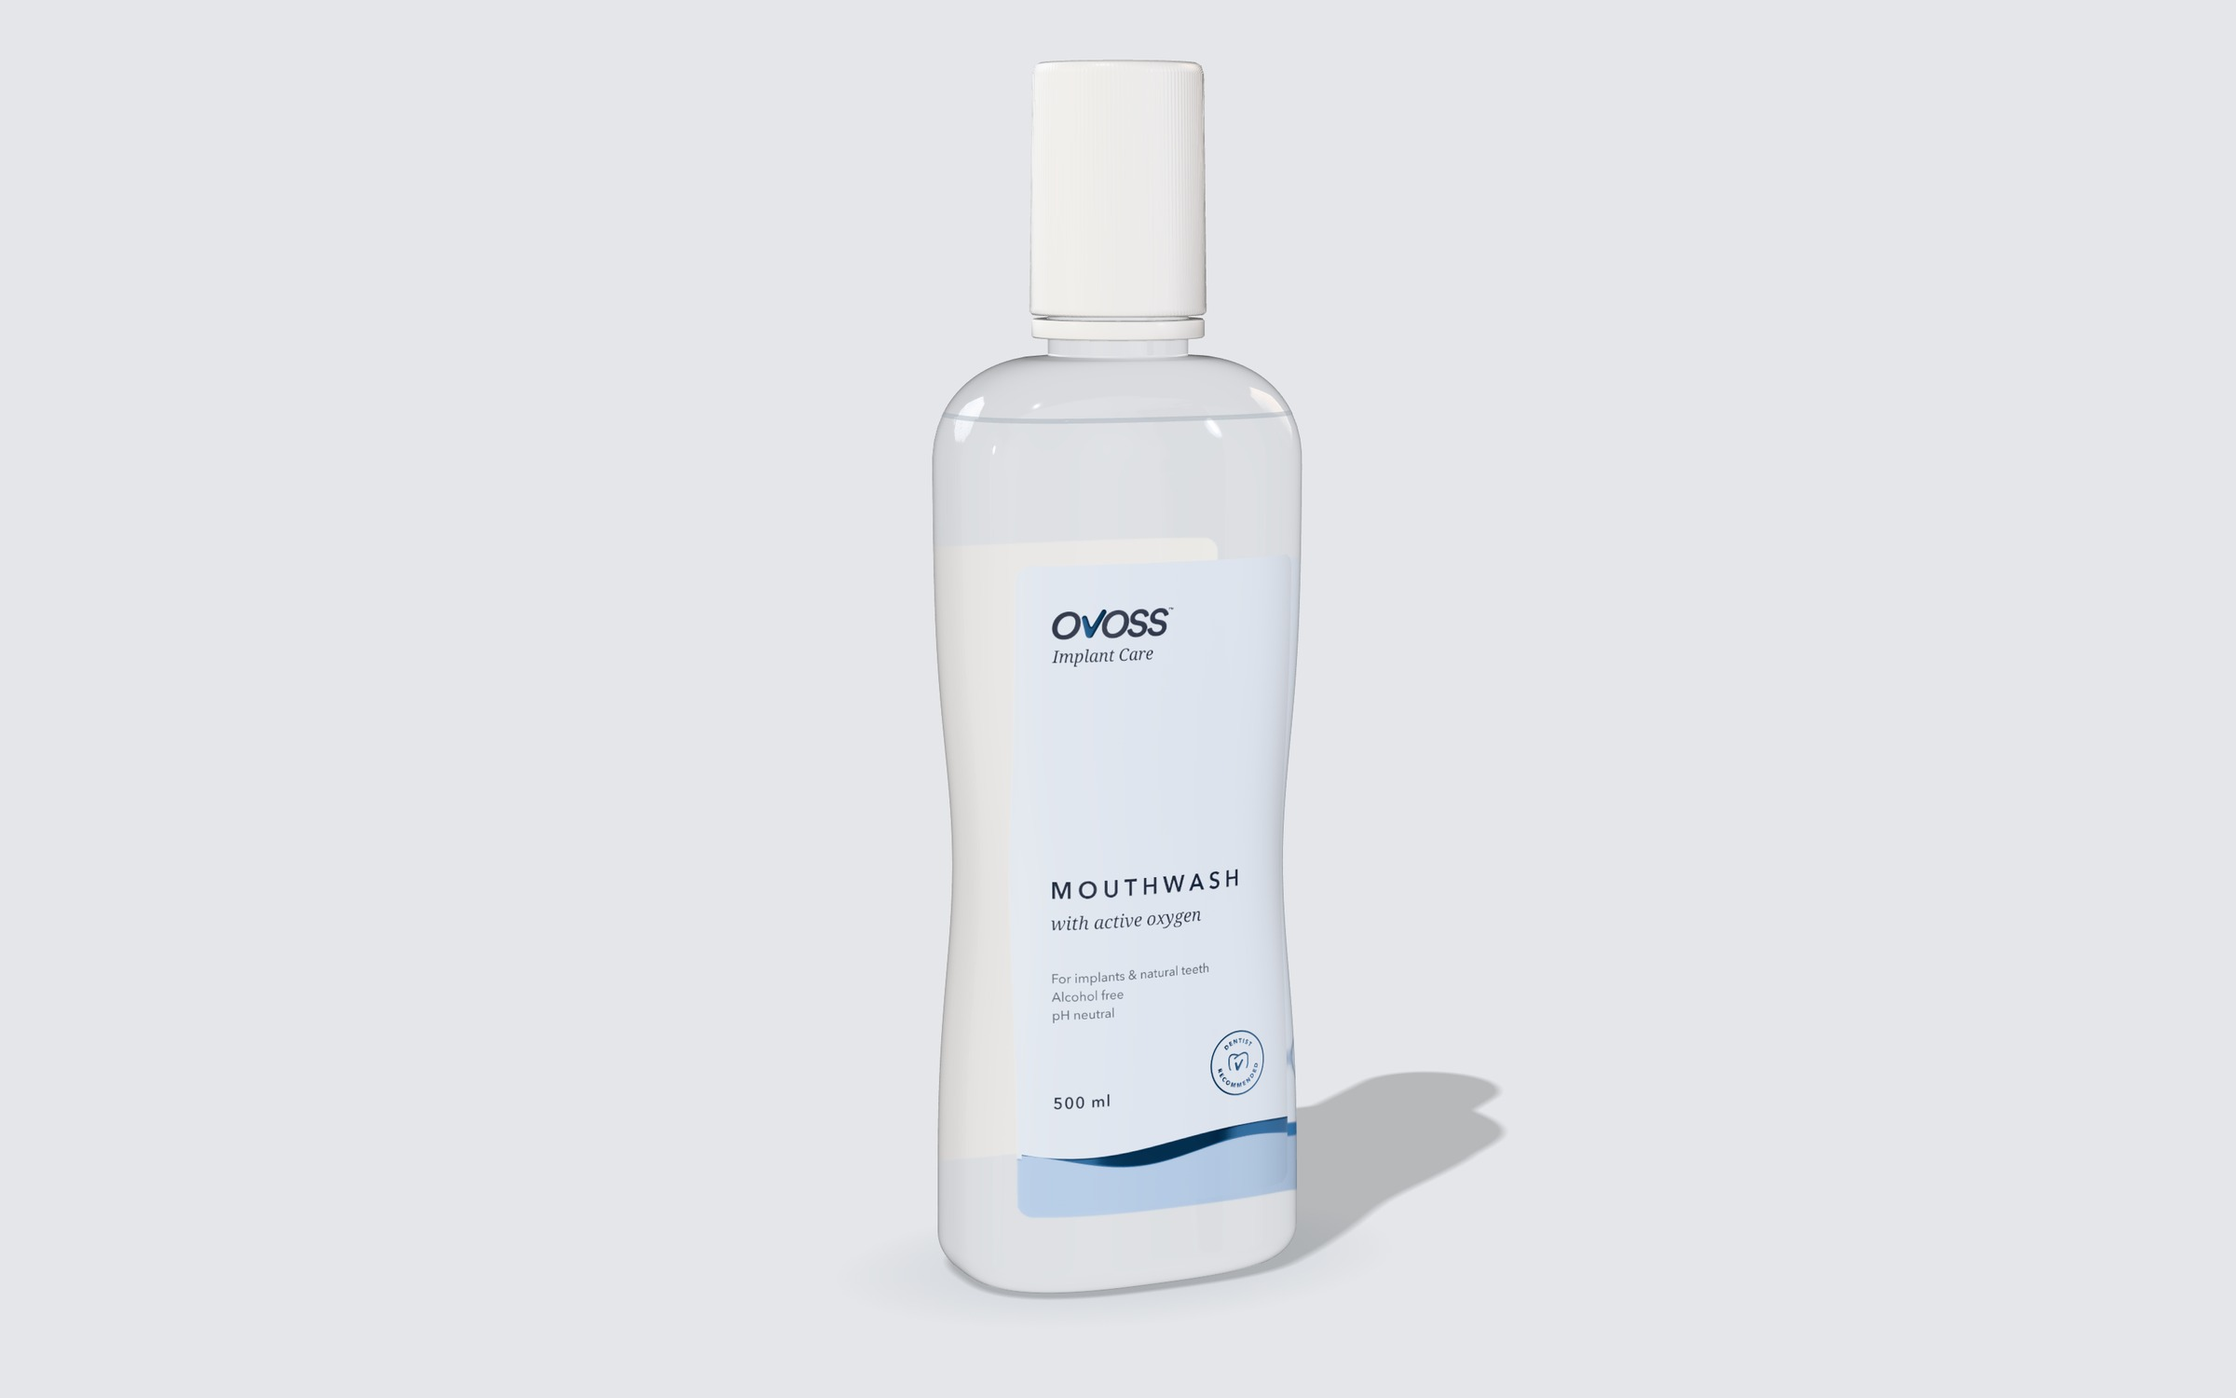
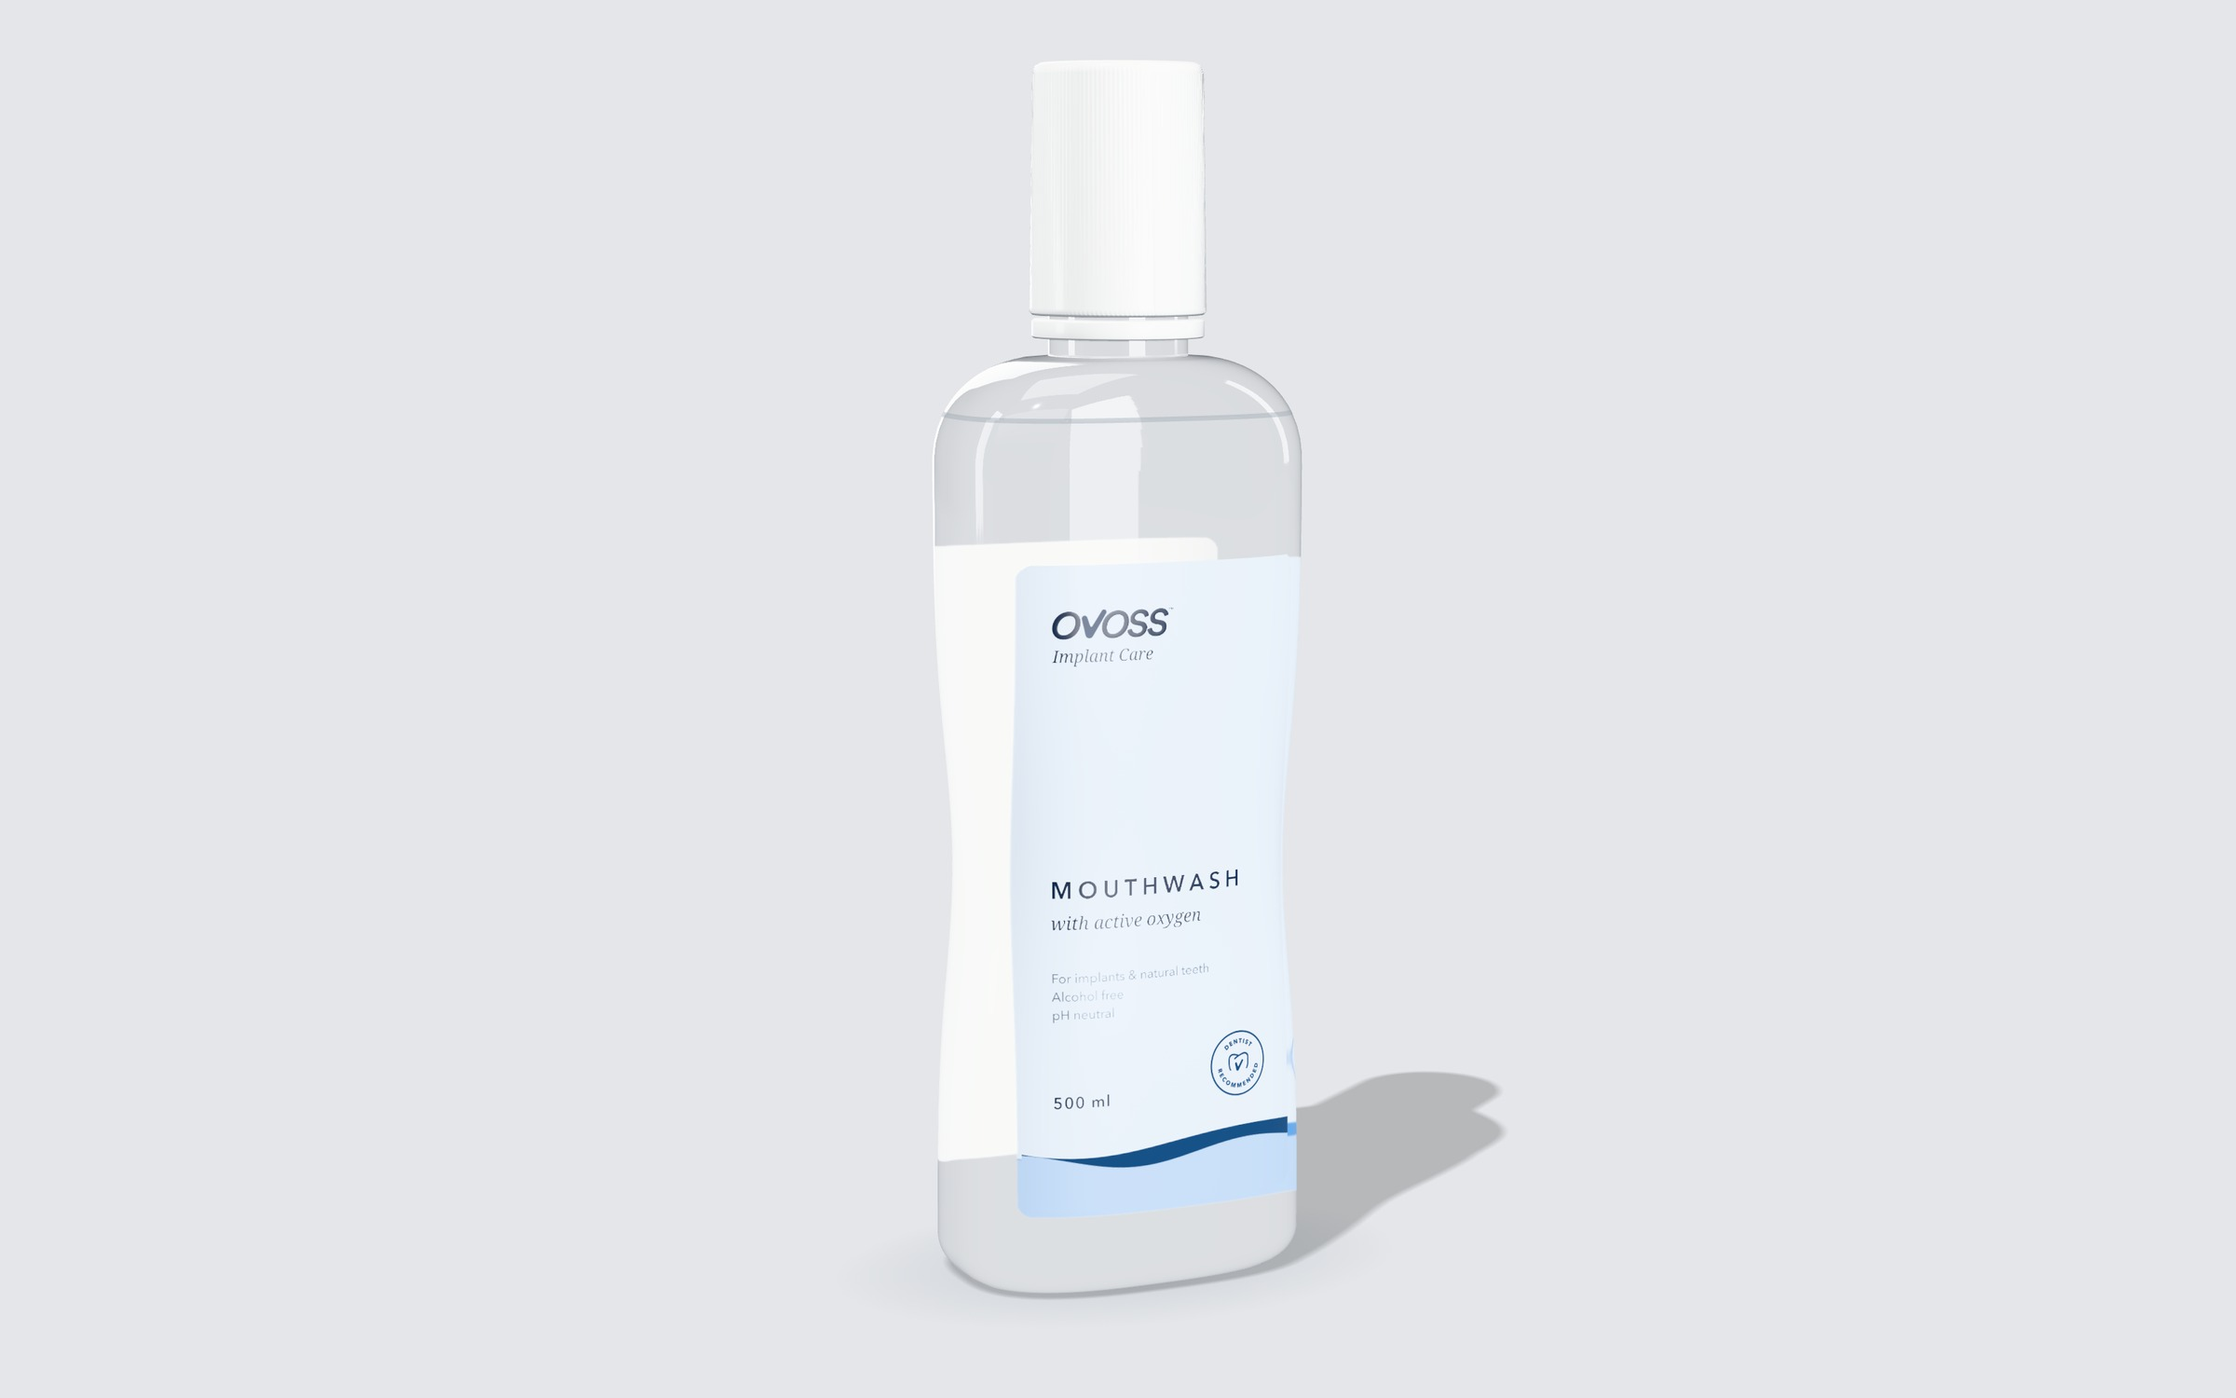
Renders: product-shoot lighting, paper board, brushed foil; tube tint to the label top

diff --git a/_build/studio/studio.html b/_build/studio/studio.html
@@ -69,27 +69,53 @@ const FOIL_ROUGH = parseFloat(params.get('foilrough') || '0.14'), FOIL_ENV = par
 const FOIL_ROT = parseFloat(params.get('foilrot') || '1.5'), FOIL_METALNESS = parseFloat(params.get('foilmetal') || '1');
 const HB_AMP = parseFloat(params.get('hb') || '0.75'), HB_BLUR = parseFloat(params.get('hbblur') || '3.5'), GRAIN_MAX = 0.08;
 let foilEnvTex = null;
-const foilEnv = () => foilEnvTex || (foilEnvTex = pmrem.fromScene(new RoomEnvironment(), 0.03).texture);
+const foilEnv = () => PRO ? scene.environment : (foilEnvTex || (foilEnvTex = pmrem.fromScene(new RoomEnvironment(), 0.03).texture));
 function canvasOf(src) { const c = document.createElement('canvas'); c.width = src.width; c.height = src.height; return c; }
 function dataTex(c, repeat) { const t = new THREE.CanvasTexture(c); t.anisotropy = maxAniso; if (repeat) t.wrapS = THREE.RepeatWrapping; return t; }
-function heightTex(hbSrc, grain, repeat) { // 0.12 + grain + raised areas, 8-bit; raised areas (and foil) are smooth
+// Paper board: a 1024 px tile (about 72 mm on the carton texture) of soft mottling, short fibres and fine grain,
+// mid-grey 128 +- a few levels. Used in the carton's height map and, very faintly, in its colour.
+const PAPER = (() => { const N = 1024, c = document.createElement('canvas'); c.width = c.height = N; const g = c.getContext('2d');
+  g.fillStyle = 'rgb(128,128,128)'; g.fillRect(0, 0, N, N);
+  for (let i = 0; i < 260; i++) { const x = Math.random() * N, y = Math.random() * N, r = 20 + Math.random() * 90, v = Math.random() < 0.5 ? 0 : 255;
+    for (const [dx, dy] of [[0, 0], [N, 0], [-N, 0], [0, N], [0, -N]]) { const gr = g.createRadialGradient(x + dx, y + dy, 0, x + dx, y + dy, r);
+      gr.addColorStop(0, `rgba(${v},${v},${v},0.05)`); gr.addColorStop(1, `rgba(${v},${v},${v},0)`); g.fillStyle = gr; g.fillRect(x + dx - r, y + dy - r, 2 * r, 2 * r); } }
+  g.lineCap = 'round';
+  for (let i = 0; i < 9000; i++) { const x = Math.random() * N, y = Math.random() * N, a = Math.random() * Math.PI, L = 4 + Math.random() * 26, v = Math.random() < 0.55 ? 255 : 0;
+    g.strokeStyle = `rgba(${v},${v},${v},${0.05 + Math.random() * 0.09})`; g.lineWidth = 0.6 + Math.random() * 1.1; g.beginPath();
+    const mx = x + Math.cos(a) * L / 2 + (Math.random() - 0.5) * 4, my = y + Math.sin(a) * L / 2 + (Math.random() - 0.5) * 4;
+    g.moveTo(x, y); g.quadraticCurveTo(mx, my, x + Math.cos(a) * L, y + Math.sin(a) * L); g.stroke(); }
+  const d = g.getImageData(0, 0, N, N), p = d.data;
+  for (let i = 0; i < p.length; i += 4) { const v = p[i] + (Math.random() - 0.5) * 26; p[i] = p[i + 1] = p[i + 2] = v; }
+  g.putImageData(d, 0, 0); return c; })();
+function paperize(img) { // the artwork with a faint paper fibre pattern multiplied in
+  const c = canvasOf(img), g = c.getContext('2d'); g.drawImage(img, 0, 0);
+  g.globalCompositeOperation = 'overlay'; g.globalAlpha = parseFloat(params.get('paperink') || '0.16');
+  g.fillStyle = g.createPattern(PAPER, 'repeat'); g.fillRect(0, 0, c.width, c.height);
+  g.globalAlpha = 1; g.globalCompositeOperation = 'source-over'; return c;
+}
+function heightTex(hbSrc, grain, repeat, paper) { // 0.12 + grain (or paper) + raised areas, 8-bit; raised areas (and foil) are smooth
   const c = canvasOf(hbSrc), g = c.getContext('2d');
   g.fillStyle = '#000'; g.fillRect(0, 0, c.width, c.height); g.filter = `blur(${HB_BLUR}px)`; g.drawImage(hbSrc, 0, 0); g.filter = 'none';
   const d = g.getImageData(0, 0, c.width, c.height), p = d.data;
-  for (let i = 0; i < p.length; i += 4) { const v = Math.max(0, Math.min(255, 31 + (Math.random() - 0.5) * grain * 255 * (1 - p[i] / 255) + p[i] * HB_AMP)); p[i] = p[i + 1] = p[i + 2] = v; p[i + 3] = 255; }
+  let pp = null;
+  if (paper && grain) { const pc = canvasOf(hbSrc), pg = pc.getContext('2d'); pg.fillStyle = pg.createPattern(PAPER, 'repeat'); pg.fillRect(0, 0, pc.width, pc.height); pp = pg.getImageData(0, 0, pc.width, pc.height).data; }
+  const PG = parseFloat(params.get('paperbump') || '2.2');
+  for (let i = 0; i < p.length; i += 4) { const h = p[i] / 255, n = pp ? (pp[i] - 128) / 255 * PG : (Math.random() - 0.5);
+    const v = Math.max(0, Math.min(255, 31 + n * grain * 255 * (1 - h) + p[i] * HB_AMP)); p[i] = p[i + 1] = p[i + 2] = v; p[i + 3] = 255; }
   g.putImageData(d, 0, 0); return dataTex(c, repeat);
 }
+const HB_CC = parseFloat(params.get('hbcc') || '0.22'), HB_CCR = parseFloat(params.get('hbccr') || '0.15');
 function glossTex(hbSrc, cc, ccRough, repeat) { // clearcoat in R, its roughness in G (the channels three.js reads)
   const c = canvasOf(hbSrc), g = c.getContext('2d'); g.drawImage(hbSrc, 0, 0);
   const d = g.getImageData(0, 0, c.width, c.height), p = d.data;
-  for (let i = 0; i < p.length; i += 4) { const h = p[i] / 255; p[i] = Math.round((cc + (1 - cc) * h) * 255); p[i + 1] = Math.round((ccRough * (1 - h) + 0.03 * h) * 255); p[i + 2] = 0; p[i + 3] = 255; }
+  for (let i = 0; i < p.length; i += 4) { const h = p[i] / 255; p[i] = Math.round((cc + (Math.max(cc, HB_CC) - cc) * h) * 255); p[i + 1] = Math.round((ccRough * (1 - h) + HB_CCR * h) * 255); p[i + 2] = 0; p[i + 3] = 255; }
   g.putImageData(d, 0, 0); return dataTex(c, repeat);
 }
 // base: the printed material. grain/bump: the material's original grain amplitude (0-1) and bump scale.
-function highBuild(mat, hbSrc, grain, effGrain, repeat) {
+function highBuild(mat, hbSrc, grain, effGrain, repeat, paper) {
   if (!hbSrc) return null;
   const gr = Math.min(GRAIN_MAX, grain);
-  mat.bumpMap = heightTex(hbSrc, gr, repeat); mat.bumpScale = effGrain / gr;
+  mat.bumpMap = heightTex(hbSrc, gr, repeat, paper); mat.bumpScale = effGrain / gr;
   mat.userData.smoothBump = heightTex(hbSrc, 0, repeat); // for the foil layer: same raise, no grain
   mat.clearcoatMap = mat.clearcoatRoughnessMap = glossTex(hbSrc, mat.clearcoat, mat.clearcoatRoughness, repeat);
   mat.clearcoat = 1; mat.clearcoatRoughness = 1;
@@ -102,6 +128,7 @@ function foilLayer(geo, colourTex, maskSrc, bump, bumpScale, repeat) {
     metalness: 1, roughness: FOIL_ROUGH, envMap: foilEnv(), envMapIntensity: FOIL_ENV, clearcoat: 0.5, clearcoatRoughness: 0.05,
     polygonOffset: true, polygonOffsetFactor: -2, polygonOffsetUnits: -2 });
   m.envMapRotation = new THREE.Euler(0, Math.PI * FOIL_ROT, 0); m.metalness = FOIL_METALNESS;
+  if (PRO) { m.envMapRotation = new THREE.Euler(0, Math.PI * parseFloat(params.get('envrot') || '-0.15'), 0); m.anisotropy = parseFloat(params.get('foilaniso') || '0.8'); }
   if (bump) { m.bumpMap = bump; m.bumpScale = bumpScale; }
   const mesh = new THREE.Mesh(geo, m); mesh.receiveShadow = true; return mesh;
 }
@@ -109,15 +136,43 @@ function foilLayer(geo, colourTex, maskSrc, bump, bumpScale, repeat) {
 const scene = new THREE.Scene();
 scene.background = new THREE.Color(BG);
 const pmrem = new THREE.PMREMGenerator(renderer);
-try {
+// ?look=pro (default with metal=1): a product-shoot studio instead of the soft HDRI. A dim room, a gradient reflector
+// behind the camera, strip softboxes left and right, rim strips behind and a top box, so gloss and foil throw
+// real highlights. Panels are HDR (colour x intensity), like three's RoomEnvironment.
+const PRO = params.get('look') ? params.get('look') === 'pro' : !!METAL;
+function studioEnv() {
+  const s = new THREE.Scene(), I = parseFloat(params.get('strip') || '1');
+  const room = new THREE.Mesh(new THREE.BoxGeometry(60, 30, 60), new THREE.MeshBasicMaterial({ color: new THREE.Color(params.get('room') ? '#' + params.get('room') : '#5d636c'), side: THREE.BackSide }));
+  room.position.y = 12; s.add(room);
+  const floor = new THREE.Mesh(new THREE.PlaneGeometry(60, 60), new THREE.MeshBasicMaterial({ color: new THREE.Color(0x9aa0a8) }));
+  floor.rotation.x = -Math.PI / 2; floor.position.y = -2.9; s.add(floor);
+  const grad = (stops) => { const c = document.createElement('canvas'); c.width = 4; c.height = 256; const g = c.getContext('2d'), gr = g.createLinearGradient(0, 0, 0, 256);
+    stops.forEach(([o, v]) => gr.addColorStop(o, `rgb(${v},${v},${v})`)); g.fillStyle = gr; g.fillRect(0, 0, 4, 256); const t = new THREE.CanvasTexture(c); t.colorSpace = THREE.SRGBColorSpace; return t; };
+  const panel = (w, h, x, y, z, inten, map) => { const m = new THREE.Mesh(new THREE.PlaneGeometry(w, h),
+      new THREE.MeshBasicMaterial({ color: new THREE.Color(1, 1, 1).multiplyScalar(inten * I), map: map || null, side: THREE.DoubleSide }));
+    m.position.set(x, y, z); m.lookAt(0, y * 0.35, 0); s.add(m); };
+  panel(22, 22, 0, 6, 16, 1.2, grad([[0, 255], [0.32, 235], [0.5, 90], [0.62, 30], [1, 12]]));  // gradient reflector behind the camera
+  panel(4, 16, -13, 6, 9, 9);      // key strip, front left
+  panel(8, 16, 13, 5, 8, 9);       // fill strip, front right
+  panel(3, 16, 11, 7, -12, 8);     // rim strip, back right
+  panel(6, 16, -11, 6, -12, 8);    // rim strip, back left
+  const top = new THREE.Mesh(new THREE.PlaneGeometry(14, 10), new THREE.MeshBasicMaterial({ color: new THREE.Color(1, 1, 1).multiplyScalar(3 * I) }));
+  top.position.set(0, 18, 2); top.rotation.x = Math.PI / 2; s.add(top);
+  return pmrem.fromScene(s, 0.0, 0.1, 200).texture;
+}
+if (PRO) {
+  scene.environment = studioEnv();
+  scene.environmentRotation = new THREE.Euler(0, Math.PI * parseFloat(params.get('envrot') || '-0.15'), 0);
+  document.body.dataset.env = 'hdr';
+} else try {
   const hdr = await new RGBELoader().loadAsync('https://dl.polyhaven.org/file/ph-assets/HDRIs/hdr/1k/studio_small_09_1k.hdr');
   hdr.mapping = THREE.EquirectangularReflectionMapping;
   scene.environment = pmrem.fromEquirectangular(hdr).texture;
   scene.environmentRotation = new THREE.Euler(0, Math.PI * parseFloat(params.get('envrot') || '1.0'), 0);
   document.body.dataset.env = 'hdr';
 } catch (e) { scene.environment = pmrem.fromScene(new RoomEnvironment(), 0.04).texture; document.body.dataset.env = 'room'; }
-scene.environmentIntensity = 0.8;
-const key = new THREE.DirectionalLight(0xffffff, 1.25);
+scene.environmentIntensity = PRO ? parseFloat(params.get('envint') || '1.0') : 0.8;
+const key = new THREE.DirectionalLight(0xffffff, PRO ? parseFloat(params.get('key') || '1.5') : 1.25);
 key.castShadow = true; key.shadow.mapSize.set(4096, 4096); key.shadow.radius = 14; key.shadow.blurSamples = 25; key.shadow.bias = -0.0004;
 const sc = key.shadow.camera; sc.left = -260; sc.right = 260; sc.top = 260; sc.bottom = -260; sc.near = 10; sc.far = 1600;
 scene.add(key); scene.add(key.target);
@@ -232,9 +287,10 @@ function makeCarton(img = cartonImg, metalImg = cartonMetal, hbImg = cartonHB) {
   });
   const g = new THREE.BufferGeometry();
   g.setAttribute('position', new THREE.Float32BufferAttribute(pos, 3)); g.setAttribute('uv', new THREE.Float32BufferAttribute(uvs, 2)); g.setIndex(idx); g.computeVertexNormals();
-  const mat = new THREE.MeshPhysicalMaterial({ map: tex(img), roughness: 0.62, clearcoat: 0.35, clearcoatRoughness: 0.22, bumpMap: paperGrain, bumpScale: 1.2 });
+  const mat = new THREE.MeshPhysicalMaterial({ map: tex(PRO ? paperize(img) : img), roughness: PRO ? parseFloat(params.get('boardrough') || '0.72') : 0.62, specularIntensity: PRO ? parseFloat(params.get('boardspec') || '0.35') : 1, clearcoat: PRO ? parseFloat(params.get('boardcc') || '0.12') : 0.35,
+    clearcoatRoughness: PRO ? 0.18 : 0.22, bumpMap: paperGrain, bumpScale: 1.2 });
   mat.bumpMap.repeat.set(10, 10);
-  const cartonBump = highBuild(mat, hbImg, 90 / 255, 90 / 255 * 1.2, false);
+  const cartonBump = highBuild(mat, hbImg, 90 / 255, 90 / 255 * 1.2, false, PRO);
   const grp = new THREE.Group(); grp.add(finish(new THREE.Mesh(g, mat))); grp.add(contact(80, 80));
   const cartonFoil = foilLayer(g, mat.map, metalImg, mat.userData.smoothBump, mat.bumpScale, false); if (cartonFoil) grp.add(cartonFoil);
   grp.userData.h = 140;

diff --git a/_build/studio/mist_cfg.js b/_build/studio/mist_cfg.js
@@ -1,2 +1,2 @@
 // generated by the Mist build (see HANDOFF); read by make_mist_packs.jsx
-var CFG = {"navy":[97,84,46,52],"slate":[60,44,36,6],"claims":[66,51,41,14],"hbName":"SPOT UV - High Build","hbAlt":[0,0,0,15],"badgeSvg":"/Users/hypedesign/Desktop/Archive/Nuvoss/Ovoss Packaging/Dentist badge/Ovoss_Dentist_Recommended_line_type.svg","badgeScale":0.8,"ringMM":0.3,"ranges":{"implant-care":{"name":"Implant Care","paper":[7,2,0,0],"wave":[25,10,2,0],"dark":[95,84,47,52],"foil":[71,39,5,0],"foilName":"FOIL - Implant Care Blue"},"perio-care":{"name":"Perio Care","paper":[1,9,2,0],"wave":[7,26,7,0],"dark":[35,78,41,9],"foil":[28,71,27,1],"foilName":"FOIL - Perio Care Rose"},"daily-care":{"name":"Daily Care","paper":[9,0,8,0],"wave":[28,4,26,0],"dark":[80,44,68,33],"foil":[75,19,71,3],"foilName":"FOIL - Daily Care Green"},"restore":{"name":"Restore","paper":[9,0,4,0],"wave":[31,4,14,0],"dark":[85,44,49,18],"foil":[80,22,39,1],"foilName":"FOIL - Restore Teal"}},"packs":[{"key":"carton","src":"Ovoss_Toothpaste_Carton_75ml.ai","out":"Ovoss_Toothpaste_Carton_75ml_Mist.ai","tints":[[64.87,233.43,235.37,90.43]],"waves":[["Ice wave","Silver wave"]],"seam":{"x0":64.87,"x1":232.37,"backEnd":106.87,"rightStart":190.87},"tex":[{"name":"carton","rect":[0,320.03,276.44,0],"scale":500}],"notesAt":[0,-8]},{"key":"tube","src":"Ovoss_Toothpaste_Tube_Label_75ml.ai","out":"Ovoss_Toothpaste_Tube_Label_75ml_Mist.ai","tints":[[278.35,-76.0,402.35,-180.0]],"waves":[["Ice wave","Silver wave"]],"tex":[{"name":"tube-label","rect":null,"scale":600,"dieLayer":"Dieline - LABEL DIE CUT"}],"notesAt":[280,-190]},{"key":"mw","src":"Ovoss_Mouthwash_Labels_500ml.ai","out":"Ovoss_Mouthwash_Labels_500ml_Mist.ai","tints":[[-2.926,127.9,61.285,-2.729],[77.074,127.9,141.213,-2.729]],"waves":[["Ice wave front","Silver wave front"],["Ice wave back","Silver wave back"]],"tex":[{"name":"mw-front","rect":[0,125,59,0],"scale":700},{"name":"mw-back","rect":[80,125,139,0],"scale":700}],"notesAt":[0,-12]}]};
+var CFG = {"navy":[97,84,46,52],"slate":[60,44,36,6],"claims":[66,51,41,14],"hbName":"SPOT UV - High Build","hbAlt":[0,0,0,15],"badgeSvg":"/Users/hypedesign/Desktop/Archive/Nuvoss/Ovoss Packaging/Dentist badge/Ovoss_Dentist_Recommended_line_type.svg","badgeScale":0.8,"ringMM":0.3,"ranges":{"implant-care":{"name":"Implant Care","paper":[7,2,0,0],"wave":[25,10,2,0],"dark":[95,84,47,52],"foil":[71,39,5,0],"foilName":"FOIL - Implant Care Blue"},"perio-care":{"name":"Perio Care","paper":[1,9,2,0],"wave":[7,26,7,0],"dark":[35,78,41,9],"foil":[28,71,27,1],"foilName":"FOIL - Perio Care Rose"},"daily-care":{"name":"Daily Care","paper":[9,0,8,0],"wave":[28,4,26,0],"dark":[80,44,68,33],"foil":[75,19,71,3],"foilName":"FOIL - Daily Care Green"},"restore":{"name":"Restore","paper":[9,0,4,0],"wave":[31,4,14,0],"dark":[85,44,49,18],"foil":[80,22,39,1],"foilName":"FOIL - Restore Teal"}},"packs":[{"key":"carton","src":"Ovoss_Toothpaste_Carton_75ml.ai","out":"Ovoss_Toothpaste_Carton_75ml_Mist.ai","tints":[[64.87,233.43,235.37,90.43]],"waves":[["Ice wave","Silver wave"]],"seam":{"x0":64.87,"x1":232.37,"backEnd":106.87,"rightStart":190.87},"tex":[{"name":"carton","rect":[0,320.03,276.44,0],"scale":500}],"notesAt":[0,-8]},{"key":"tube","src":"Ovoss_Toothpaste_Tube_Label_75ml.ai","out":"Ovoss_Toothpaste_Tube_Label_75ml_Mist.ai","tints":[[278.35,-68.0,402.35,-180.0]],"waves":[["Ice wave","Silver wave"]],"tex":[{"name":"tube-label","rect":null,"scale":600,"dieLayer":"Dieline - LABEL DIE CUT"}],"notesAt":[280,-190]},{"key":"mw","src":"Ovoss_Mouthwash_Labels_500ml.ai","out":"Ovoss_Mouthwash_Labels_500ml_Mist.ai","tints":[[-2.926,127.9,61.285,-2.729],[77.074,127.9,141.213,-2.729]],"waves":[["Ice wave front","Silver wave front"],["Ice wave back","Silver wave back"]],"tex":[{"name":"mw-front","rect":[0,125,59,0],"scale":700},{"name":"mw-back","rect":[80,125,139,0],"scale":700}],"notesAt":[0,-12]}]};
